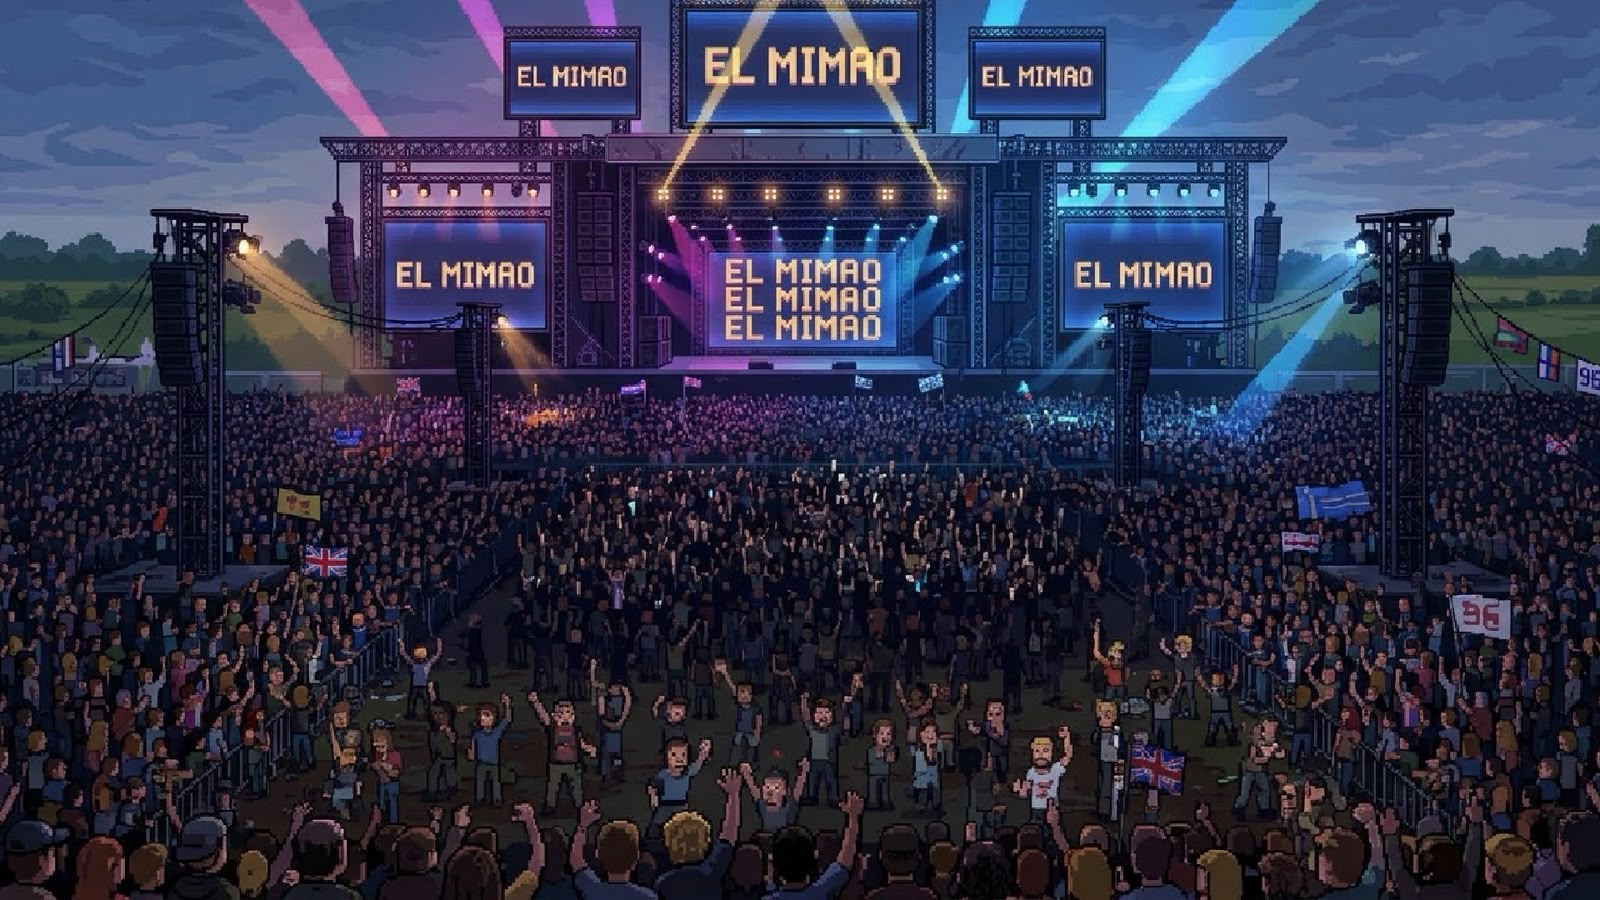
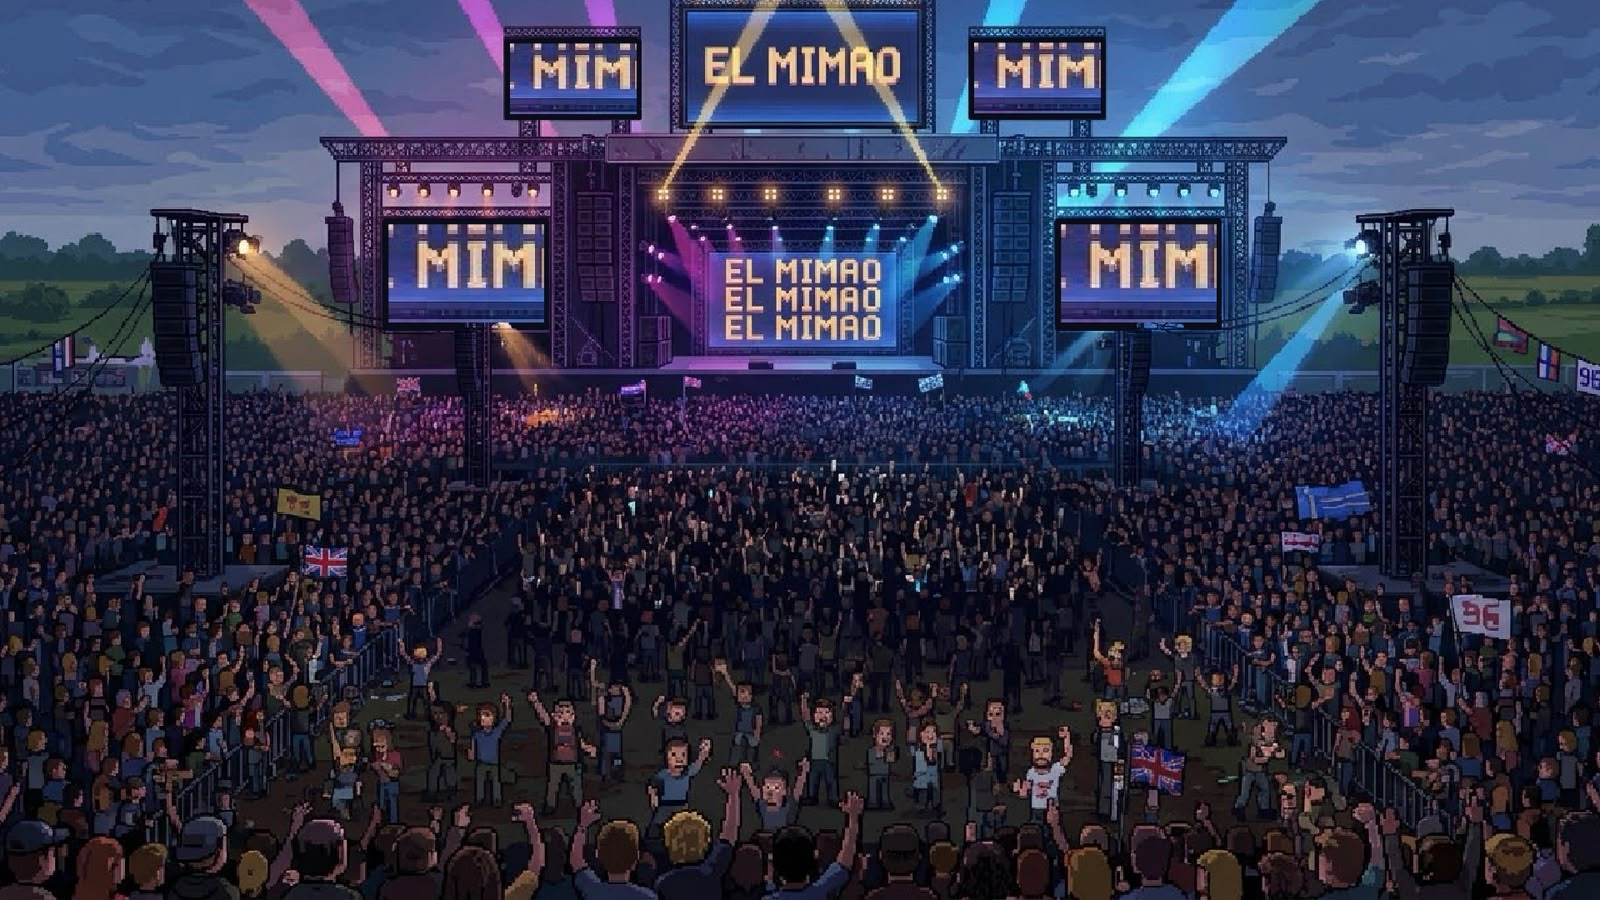
IMPLEMENTACION DE SPRITES A LOS 3 ESCENARIOS / CAMBIO DE LUCES

diff --git a/style.css b/style.css
@@ -441,7 +441,8 @@ button, select { font: inherit; }
     linear-gradient(145deg, #1c163b, #10182c 60%, #2b1743);
   box-shadow: 8px 8px 0 #ff4db8, 14px 14px 0 #080a18;
   text-align: center;
-}
+}  
+
 .story-intro[hidden] { display: none; }
 .story-intro[data-scene="1"] { border-color: #ff4db8; box-shadow: 8px 8px 0 #50e7f2, 14px 14px 0 #080a18; }
 .story-intro[data-scene="2"] { border-color: #ffd65a; box-shadow: 8px 8px 0 #8b5cff, 14px 14px 0 #080a18; }
@@ -897,21 +898,7 @@ button, select { font: inherit; }
   margin: 12px auto 0;
 }
 
-/* Haces de luz difuminados detrás de la pista. */
-.concert-lights {
-  position: absolute;
-  z-index: 0;
-  top: 20px;
-  left: -18%;
-  right: -18%;
-  height: 34%;
-  pointer-events: none;
-  background:
-    linear-gradient(72deg, transparent 30%, #ff3c9f18 42%, transparent 55%),
-    linear-gradient(108deg, transparent 36%, #605cff20 49%, transparent 62%),
-    radial-gradient(ellipse at 50% 0, #fd4a9b35, transparent 68%);
-  filter: blur(7px);
-}
+
 
 /* Marcador oculto a la vista: solo guarda el mensaje de resultado para lectores de pantalla. */
 .scoreboard {
@@ -1001,7 +988,7 @@ body[data-scenario] .game-frame {
   transition: background 900ms ease;
 }
 
-/* Cambia las luces y el color del fondo según la canción de la campaña. */
+/* Cambia las luces y el color del fondo según la canción de la campaña.
 .stage[data-scenario="no-me-digas"]::before {
   background:
     linear-gradient(72deg, transparent 18%, #22d9ff32 34%, transparent 49%),
@@ -1020,6 +1007,7 @@ body[data-scenario] .game-frame {
     linear-gradient(108deg, transparent 36%, #ffd65a32 52%, transparent 68%),
     radial-gradient(ellipse at 50% 5%, #ffad3e50, transparent 49%);
 }
+*/
 
 /* Pista trapezoidal: angosta arriba y ancha abajo. */
 .highway {
@@ -1670,3 +1658,91 @@ body.level-finished .performance-hud { display: none; }
   border-radius: inherit;
   transition: height .25s ease, background-color .25s ease;
 }
+
+.personaje {
+  display: none;
+  position: absolute;
+  z-index: 0;                       /* detrás de la pista y de las notas */
+  left: var(--personaje-x, 50%);
+  top: var(--personaje-y, 42%);
+  transform: translate(-50%, -100%);
+  width: var(--personaje-ancho, 175px);
+  aspect-ratio: 256 / 299;          /* tamaño de UN cuadro: ajústalo al tuyo */
+  background-image: var(--personaje-hoja);
+  background-repeat: no-repeat;
+  background-size: 1600% 100%;
+  background-position: 0 0;
+  image-rendering: pixelated;
+  pointer-events: none;
+  animation: personaje-anim 5s steps(16, jump-none) infinite;
+}
+
+@keyframes personaje-anim { to { background-position: 100% 0; } }
+
+/* Una hoja por escenario. El tutorial no tiene.*/
+body[data-scenario="no-me-digas"] {
+  --personaje-hoja: url("ART/assets/MIMAOV1Baile.png");
+}
+body[data-scenario="me-gustan"] {
+  --personaje-hoja: url("ART/assets/MIMAOV2Baile.png");
+  --personaje-y:40%;
+  --personaje-ancho: 150px;         
+}
+body[data-scenario="hazlo-otra-vez"] {
+  --personaje-hoja: url("ART/assets/MIMAOV3Baile.png");
+  --personaje-ancho: 70px;
+  --personaje-y: 41.2%;
+  --personaje-x: 50.4%;    
+}
+
+body[data-scenario="no-me-digas"] .personaje,
+body[data-scenario="me-gustan"] .personaje,
+body[data-scenario="hazlo-otra-vez"] .personaje { display: block; }
+
+
+.pantalla, .publico { display: none; position: absolute; z-index: 0; pointer-events: none; }
+
+/* ---------- Escenario 3: 4 pantallas ---------- */
+.pantalla { overflow: hidden; }
+.pantalla::before {                 /* el sprite recortado vive aquí */
+  content: "";
+  position: absolute;
+  left: 50%;
+  top: var(--corte-y, 0%);
+  width: var(--zoom, 100%);
+  aspect-ratio: 256 / 384;
+  transform: translateX(-50%);
+  background-image: var(--personaje-hoja);
+  background-repeat: no-repeat;
+  background-size: 1600% 100%;
+  image-rendering: pixelated;
+  animation: personaje-anim var(--personaje-vuelta, 5s) steps(16, jump-none) infinite;
+}
+/* Coordenadas en píxeles de tu imagen de 1920x1080. Valores de relleno: hay que ajustarlos. */
+.pantalla--1 { left: 1285px;  top: 245px; width: 190px; height: 140px; }
+.pantalla--2 { left: 480px;  top: 245px; width: 190px; height: 140px; }
+.pantalla--3 { left: 630px; top: 37px; width: 130px; height: 100px; }
+.pantalla--4 { left: 1185px; top: 37px; width: 130px; height: 100px; }
+/* Si una pantalla necesita otro acercamiento: .pantalla--2 { --zoom: 130%; --corte-y: -5%; } */
+
+body[data-scenario="hazlo-otra-vez"] .pantalla { display: block; }
+
+/* ---------- Escenario 2: público que respira ---------- */
+.publico {
+  left: 0;
+  bottom: -20px;                    /* el borde de abajo queda fuera del marco, así no se ve hueco al subir */
+  width: 100%;
+  height: auto;
+  animation: respirar var(--publico-vuelta, 1s) cubic-bezier(.37, 0, .63, 1) infinite alternate;
+}
+@keyframes respirar {
+  from { transform: translateY(0); }
+  to   { transform: translateY(calc(var(--publico-amplitud, 20px) * -1)); }
+}
+body[data-scenario="me-gustan"] .publico { display: block; }
+
+/* Se congelan al terminar el nivel */
+body.level-finished .personaje,
+body.level-finished .pantalla-sprite,
+body.level-finished .pantalla::before,
+body.level-finished .publico { animation-play-state: paused; }

diff --git a/index.html b/index.html
@@ -49,6 +49,17 @@
     </div>
   </aside>
 
+  <div class="personaje" aria-hidden="true"></div>
+
+  <!-- Escenario 3: pantallas con el personaje en primer plano -->
+  <div class="pantalla pantalla--1" aria-hidden="true"><div class="pantalla-sprite"></div></div>
+  <div class="pantalla pantalla--2" aria-hidden="true"></div>
+  <div class="pantalla pantalla--3" aria-hidden="true"></div>
+  <div class="pantalla pantalla--4" aria-hidden="true"></div>
+
+  <!-- Escenario 2: público (un PNG normal, no una hoja) -->
+  <img class="publico" src="ART/assets/pubESC_02.png" alt="" aria-hidden="true">
+
   <main class="app">
 
     <!-- ===== BARRA SUPERIOR: marca y título ===== -->
